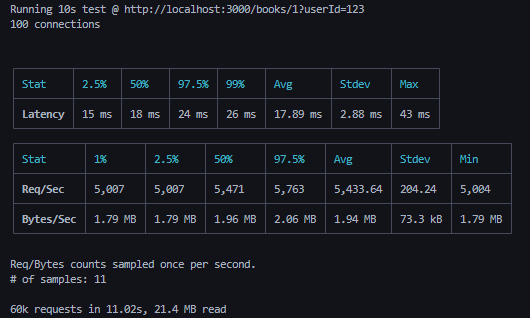
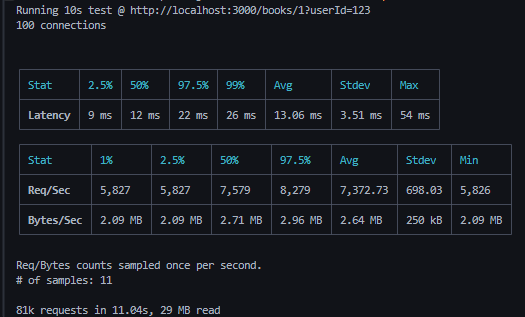
performance improvements

diff --git a/src/handlers/__tests__/request.handler.test.ts b/src/handlers/__tests__/request.handler.test.ts
@@ -4,7 +4,10 @@ import { Response } from "../../types/response.type";
 import { ControllerFn } from "../../types/controller.type";
 import * as route from "../../route";
 import { configureErrorHandler } from "../error.handler";
+import { configureLogger } from "../logger.handler";
+import { log, logger } from "../../utils/logger.utils";
 import * as loggerUtils from "../../utils/logger.utils";
+import { stream } from "batch-stdout/dist/logger";
 
 describe("requestHandler", () => {
     it("should return a 404 response if the route is not found", async () => {
@@ -70,6 +73,85 @@ describe("requestHandler", () => {
         expect(flushSpy).toHaveBeenCalled();
         configureErrorHandler({});
         flushSpy.mockRestore();
+    });
+
+    it("should flush every log written during a request", async () => {
+        route.init();
+        configureLogger({
+            enableRequestLogging: true,
+            enableResponseLogging: true,
+        });
+        configureErrorHandler({
+            errorHandler: (err) => {
+                log.error("handled error", { message: err.message });
+                return { status: 500, body: { message: "failed" } };
+            },
+        });
+
+        const writes: string[] = [];
+        const writeSpy = jest.spyOn(stream, "write").mockImplementation((chunk: any) => {
+            writes.push(Buffer.isBuffer(chunk) ? chunk.toString() : String(chunk));
+            return true;
+        });
+
+        const readFlushedLogs = async (
+            pathname: string,
+            controller: ControllerFn,
+        ): Promise<string> => {
+            writes.length = 0;
+            route.get(pathname, controller);
+            await requestHandler({
+                headers: {},
+                query: {},
+                body: {},
+                cookies: {},
+                method: Method.Get,
+                pathname,
+            });
+            const flushed = writes.join("\n");
+            writes.length = 0;
+            logger.flush();
+            return flushed;
+        };
+
+        try {
+            const successLogs = await readFlushedLogs("/logged", () => {
+                log.info("controller info");
+                log.warn("controller warn");
+                log.error("controller error");
+                log.debug("controller debug");
+                return { status: 200, body: { ok: true } };
+            });
+            const leftAfterSuccess = writes.join("\n");
+
+            expect(successLogs).toContain("REQUEST: /logged");
+            expect(successLogs).toContain("controller info");
+            expect(successLogs).toContain("controller warn");
+            expect(successLogs).toContain("controller error");
+            expect(successLogs).toContain("controller debug");
+            expect(successLogs).toContain("RESPONSE: /logged");
+            expect(leftAfterSuccess).not.toContain("REQUEST: /logged");
+            expect(leftAfterSuccess).not.toContain("controller info");
+            expect(leftAfterSuccess).not.toContain("RESPONSE: /logged");
+
+            const errorLogs = await readFlushedLogs("/explode", () => {
+                log.warn("before throw");
+                throw new Error("boom");
+            });
+            const leftAfterError = writes.join("\n");
+
+            expect(errorLogs).toContain("REQUEST: /explode");
+            expect(errorLogs).toContain("before throw");
+            expect(errorLogs).toContain("handled error");
+            expect(errorLogs).toContain("boom");
+            expect(leftAfterError).not.toContain("REQUEST: /explode");
+            expect(leftAfterError).not.toContain("before throw");
+            expect(leftAfterError).not.toContain("handled error");
+        } finally {
+            configureLogger({});
+            configureErrorHandler({});
+            writeSpy.mockRestore();
+        }
     });
 
     it("should handle unsupported methods", async () => {

diff --git a/src/route.ts b/src/route.ts
@@ -4,7 +4,7 @@ import { MiddlewareFn } from "./types/middleware.type";
 import { Schema } from "./types/schema.type";
 import { Request } from "./types/request.type";
 import { Response } from "./types/response.type";
-import { validateRequest } from "./utils/zod.utils";
+import { compileSchema, validateRequest } from "./utils/zod.utils";
 import { NoRouteError } from "./constants/no-route.error";
 import { createRouteTrie, RouteTrie } from "./trie";
 import { optionsHandler } from "./handlers/options.handler";
@@ -28,19 +28,31 @@ export function init() {
     optionsTrie = createRouteTrie<RouteFns>(Method.Options);
 }
 
+function compileRouteSchemas(routeFns: readonly (MiddlewareFn | Schema | ControllerFn)[]) {
+    for (const routeFn of routeFns) {
+        if (typeof routeFn === "object") {
+            compileSchema(routeFn);
+        }
+    }
+}
+
 export function get(path: string, ...routeFns: RouteFns) {
+    compileRouteSchemas(routeFns);
     return gets.insert(path, routeFns);
 }
 
 export function post(path: string, ...routeFns: RouteFns) {
+    compileRouteSchemas(routeFns);
     return posts.insert(path, routeFns);
 }
 
 export function put(path: string, ...routeFns: RouteFns) {
+    compileRouteSchemas(routeFns);
     return puts.insert(path, routeFns);
 }
 
 export function del(path: string, ...routeFns: RouteFns) {
+    compileRouteSchemas(routeFns);
     return deletes.insert(path, routeFns);
 }
 
@@ -77,6 +89,9 @@ export function resolveController(
 }
 
 export function addGlobalMiddleware(middleware: MiddlewareFn | Schema) {
+    if (typeof middleware === "object") {
+        compileSchema(middleware);
+    }
     globalMiddlewares.push(middleware);
 }
 

diff --git a/src/server.ts b/src/server.ts
@@ -1,9 +1,8 @@
 import http from "http";
 import { safeParseJson } from "./utils/json.utils";
 import { Method } from "./constants/enums";
-import querystring from "querystring";
 import { sendHttpResponse } from "./utils/response.utils";
-import { parseCookies } from "./utils/request.utils";
+import { parseCookies, parseQuery } from "./utils/request.utils";
 import { requestHandler } from "./handlers/request.handler";
 import { Options } from "./types/options.type";
 import { configureLogger } from "./handlers/logger.handler";
@@ -19,6 +18,10 @@ function parseBody(req: http.IncomingMessage): Promise<Record<string, any> | und
             chunks.push(chunk);
         });
         req.on("end", () => {
+            if (chunks.length === 0) {
+                resolve(undefined);
+                return;
+            }
             const body = Buffer.concat(chunks).toString();
             resolve(safeParseJson(body));
         });
@@ -33,7 +36,7 @@ export const serverCallback = (options: Options = {}) => {
     configureOptionsHandler(options);
     return async (req: http.IncomingMessage, httpResponse: http.ServerResponse) => {
         const [pathname, querystr] = req.url?.split("?") || [];
-        const query = querystring.parse(querystr || "");
+        const query = parseQuery(querystr);
         const body = await parseBody(req);
         const cookies = parseCookies(req.headers.cookie as string);
 

diff --git a/src/utils/__tests__/logger.utils.test.ts b/src/utils/__tests__/logger.utils.test.ts
@@ -1,4 +1,4 @@
-import { defaultOptions, log, logger, setLoggerOptions } from "../logger.utils";
+import { defaultOptions, flushLogger, log, logger, setLoggerOptions } from "../logger.utils";
 import * as batchStdout from "batch-stdout";
 
 describe("loggerUtils", () => {
@@ -41,6 +41,25 @@ describe("loggerUtils", () => {
             const logSpy = jest.spyOn(logger, "debug");
             log.debug("test", { message: "test" });
             expect(logSpy).toHaveBeenCalledWith("test", { message: "test" });
+        });
+    });
+
+    describe("flushLogger", () => {
+        it("should skip flushing when nothing was logged", () => {
+            const flushSpy = jest.spyOn(logger, "flush").mockImplementation(() => undefined);
+            flushLogger();
+            flushSpy.mockClear();
+            flushLogger();
+            expect(flushSpy).not.toHaveBeenCalled();
+            flushSpy.mockRestore();
+        });
+
+        it("should flush after a log line is buffered", () => {
+            const flushSpy = jest.spyOn(logger, "flush").mockImplementation(() => undefined);
+            log.info("test", { message: "test" });
+            flushLogger();
+            expect(flushSpy).toHaveBeenCalledTimes(1);
+            flushSpy.mockRestore();
         });
     });
 });

diff --git a/src/utils/logger.utils.ts b/src/utils/logger.utils.ts
@@ -10,8 +10,14 @@ export const defaultOptions = {
 
 export let logger = Logger(defaultOptions);
 
+let pendingLogs = false;
+
 export function setLoggerOptions(options: Options) {
     if (options.batchStdoutOptions) {
+        if (pendingLogs) {
+            logger.flush();
+            pendingLogs = false;
+        }
         logger = Logger({
             ...defaultOptions,
             ...options.batchStdoutOptions,
@@ -20,12 +26,21 @@ export function setLoggerOptions(options: Options) {
 }
 
 export function flushLogger() {
+    if (!pendingLogs) {
+        return;
+    }
+    pendingLogs = false;
     logger.flush();
 }
 
+function record(write: () => void) {
+    write();
+    pendingLogs = true;
+}
+
 export const log = {
-    info: (...items: any[]) => logger.info(...items),
-    error: (...items: any[]) => logger.error(...items),
-    warn: (...items: any[]) => logger.warning(...items),
-    debug: (...items: any[]) => logger.debug(...items),
+    info: (...items: any[]) => record(() => logger.info(...items)),
+    error: (...items: any[]) => record(() => logger.error(...items)),
+    warn: (...items: any[]) => record(() => logger.warning(...items)),
+    debug: (...items: any[]) => record(() => logger.debug(...items)),
 };

diff --git a/src/utils/zod.utils.ts b/src/utils/zod.utils.ts
@@ -3,8 +3,25 @@ import { Request } from "../types/request.type";
 import z from "zod";
 import { ValidationError } from "../constants/validation.error";
 
+const compiledSchemas = new WeakMap<Schema, z.ZodType>();
+
+function getCompiledSchema(schema: Schema): z.ZodType {
+    const existing = compiledSchemas.get(schema);
+    if (existing) {
+        return existing;
+    }
+    const compiled = z.object(schema);
+    compiledSchemas.set(schema, compiled);
+    return compiled;
+}
+
+export function compileSchema(schema: Schema): Schema {
+    getCompiledSchema(schema);
+    return schema;
+}
+
 export function validateRequest(schema: Schema, request: Request): void | never {
-    const zodSchema = z.object(schema);
+    const zodSchema = getCompiledSchema(schema);
     const result = zodSchema.safeParse({
         params: request.params,
         body: request.body,

diff --git a/src/utils/__tests__/request.utils.test.ts b/src/utils/__tests__/request.utils.test.ts
@@ -1,6 +1,21 @@
-import { parseCookies } from "../request.utils";
+import { parseCookies, parseQuery } from "../request.utils";
 
 describe("requestUtils", () => {
+    describe("parseQuery", () => {
+        it("should return an empty object when there is no query string", () => {
+            expect(parseQuery(undefined)).toEqual({});
+            expect(parseQuery("")).toEqual({});
+        });
+
+        it("should parse a query string", () => {
+            expect(parseQuery("var=1")).toEqual({ var: "1" });
+        });
+
+        it("should collect repeated keys into an array", () => {
+            expect(parseQuery("var=1&var=2")).toEqual({ var: ["1", "2"] });
+        });
+    });
+
     describe("parseCookies", () => {
         it("should parse cookies from a cookie header", () => {
             const cookies = parseCookies("name=John Doe; age=30");

diff --git a/src/utils/request.utils.ts b/src/utils/request.utils.ts
@@ -1,3 +1,23 @@
+export function parseQuery(querystr: string | undefined): Record<string, string | string[]> {
+    if (!querystr) {
+        return {};
+    }
+
+    const params = new URLSearchParams(querystr);
+    const query: Record<string, string | string[]> = {};
+    for (const [key, value] of params) {
+        const existing = query[key];
+        if (existing === undefined) {
+            query[key] = value;
+        } else if (typeof existing === "string") {
+            query[key] = [existing, value];
+        } else {
+            existing.push(value);
+        }
+    }
+    return query;
+}
+
 export function parseCookies(cookieHeader: string | undefined) {
     const cookies: Record<string, string> = {};
     if (!cookieHeader) {

diff --git a/src/utils/__tests__/json.utils.test.ts b/src/utils/__tests__/json.utils.test.ts
@@ -8,6 +8,10 @@ describe("jsonUtils", () => {
             expect(result).toEqual({ hello: "world" });
         });
 
+        it("should return undefined for an empty body without parsing", () => {
+            expect(safeParseJson("")).toBeUndefined();
+        });
+
         it("should return an undefined if the json is invalid", () => {
             const json = "invalid json";
             const result = safeParseJson(json);

diff --git a/src/utils/json.utils.ts b/src/utils/json.utils.ts
@@ -1,4 +1,7 @@
 export function safeParseJson(data: string): Record<string, any> | undefined {
+    if (!data) {
+        return undefined;
+    }
     try {
         return JSON.parse(data);
     } catch (error) {

diff --git a/src/handlers/request.handler.ts b/src/handlers/request.handler.ts
@@ -43,6 +43,6 @@ export async function requestHandler({
     } catch (err: any) {
         return errorHandler(err);
     } finally {
-        new Promise(() => flushLogger());
+        flushLogger();
     }
 }
